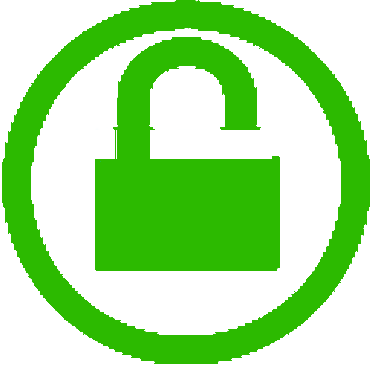
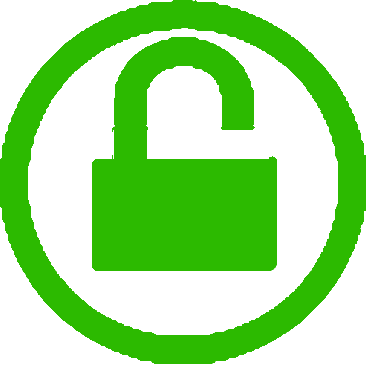
Un po' di grafica
cambio pop up provvisori
cambio icona
cambio sfondo

diff --git a/Move Quiz/Question.xaml b/Move Quiz/Question.xaml
@@ -20,23 +20,49 @@
         </Grid.Background>
         <!--ContentPanel - place additional content here-->
         <!--<Grid x:Name="ContentPanel" Grid.Row="1" Margin="12,0,12,0">-->
-        <Popup x:Name="vittoria" Grid.Row="1" >
-            <Border  BorderThickness="2"  BorderBrush="{StaticResource PhoneAccentBrush}">
-                <StackPanel Background="LightBlue" Height="490" Width="460">
+        <Popup x:Name="vittoria" Margin="23,130,0,0" >
+            <Border  BorderThickness="2">
+            	<Border.BorderBrush>
+            		<RadialGradientBrush>
+            			<GradientStop Color="Black" Offset="0"/>
+            			<GradientStop Color="White" Offset="1"/>
+            		</RadialGradientBrush>
+            	</Border.BorderBrush>
+            	<Border.Background>
+            		<LinearGradientBrush EndPoint="0.5,1" StartPoint="0.5,0">
+            			<GradientStop Color="Black" Offset="0"/>
+            			<GradientStop Color="White" Offset="1"/>
+            		</LinearGradientBrush>
+            	</Border.Background>
+                <StackPanel Background="#FF007CA4" Height="490" Width="427" Margin="0">
                     <Image Margin="0 30 0 20" Grid.Row="0" Source="/Images/vittoria.png" HorizontalAlignment="Center" Stretch="Uniform" Width="250" />
-                    <TextBlock Grid.Row="1" Text="Hai Vinto" TextAlignment="Center" FontSize="40" FontFamily="/Lights Out;component/Fonts/Fonts.zip#Buxton Sketch" Margin="10,0" />
-                    <Button Grid.Row="2" x:Name="btn_continue"  Content="Continue" FontFamily="/Lights Out;component/Fonts/Fonts.zip#Buxton Sketch" Width="215" Click="next_level"/>
+                    <TextBlock Grid.Row="1" TextAlignment="Center" FontSize="53.333" FontFamily="/Lights Out;component/Fonts/Fonts.zip#Buxton Sketch" Margin="10,0" >
+                    	<Run Text="Livello"/>
+                    	<LineBreak/>
+                    	<Run Text="completato!"/>
+                    </TextBlock>
+                    <Button Grid.Row="2" x:Name="btn_continue"  Content="Successivo" FontFamily="/Lights Out;component/Fonts/Fonts.zip#Buxton Sketch" Click="next_level" Height="146" Margin="10,0" FontSize="33.333"/>
 
                 </StackPanel>
             </Border>
         </Popup>
-        <Popup x:Name="sconfittaPopUp" Grid.Row="1" >
-            <Border  BorderThickness="2"  BorderBrush="{StaticResource PhoneAccentBrush}">
-                <StackPanel Background="LightBlue" Height="490" Width="460">
+        <Popup x:Name="sconfittaPopUp" Height="573" VerticalAlignment="Bottom" HorizontalAlignment="Left" Width="460" Margin="23,0,0,105" >
+            <Border  BorderThickness="2">
+            	<Border.BorderBrush>
+            		<RadialGradientBrush>
+            			<GradientStop Color="Black" Offset="0"/>
+            			<GradientStop Color="White" Offset="1"/>
+            		</RadialGradientBrush>
+            	</Border.BorderBrush>
+                <StackPanel Background="#FF007CA4" Height="572" Width="433" Margin="0">
                     <Image Margin="0 30 0 20" Grid.Row="0" Source="/Images/vittoria.png" HorizontalAlignment="Center" Stretch="Uniform" Width="250" />
-                    <TextBlock Grid.Row="1" Text="Risposta errata" TextAlignment="Center" FontSize="40" FontFamily="/Lights Out;component/Fonts/Fonts.zip#Buxton Sketch" Margin="10,0" />
-                    <Button Grid.Row="2" x:Name="btn_ricomincia"  Content="Ricomincia" FontFamily="/Lights Out;component/Fonts/Fonts.zip#Buxton Sketch" Width="215" Click="ricomincia"/>
-                    <Button Grid.Row="2" x:Name="btn_esci"  Content="Esci" FontFamily="/Lights Out;component/Fonts/Fonts.zip#Buxton Sketch" Width="215" Click="esci"/>
+                    <TextBlock Grid.Row="1" TextAlignment="Center" FontSize="60" FontFamily="/Lights Out;component/Fonts/Fonts.zip#Buxton Sketch" Margin="10,0" >
+                    	<Run Text="Risposta"/>
+                    	<LineBreak/>
+                    	<Run Text="errata"/>
+                    </TextBlock>
+                    <Button Grid.Row="2" x:Name="btn_ricomincia"  Content="Ricomincia" FontFamily="/Lights Out;component/Fonts/Fonts.zip#Buxton Sketch" Click="ricomincia" Height="126" Margin="64,0" FontSize="40"/>
+                    <Button x:Name="btn_esci"  Content="Esci" FontFamily="/Lights Out;component/Fonts/Fonts.zip#Buxton Sketch" Click="esci" Margin="64,0" Height="126" RenderTransformOrigin="0.5,0.5" UseLayoutRounding="False" d:LayoutRounding="Auto" FontSize="40"/>
 
                 </StackPanel>
             </Border>

diff --git a/Move Quiz/MainPage.xaml b/Move Quiz/MainPage.xaml
@@ -14,7 +14,10 @@
     shell:SystemTray.IsVisible="True">
 
     <!--LayoutRoot is the root grid where all page content is placed-->
-    <Grid x:Name="LayoutRoot" Background="Transparent">
+    <Grid x:Name="LayoutRoot">
+    	<Grid.Background>
+    		<ImageBrush Stretch="Fill" ImageSource="back4.jpg"/>
+    	</Grid.Background>
         <Grid.RowDefinitions>
             <RowDefinition Height="Auto"/>
             <RowDefinition Height="*"/>
@@ -34,7 +37,7 @@
 
         <!--ContentPanel - place additional content here-->
         <Grid x:Name="ContentPanel" Margin="14,136,10,-10" Grid.RowSpan="2">
-            <Button Content="Gioca ora!" HorizontalAlignment="Left" VerticalAlignment="Top" Click="Button_Click" Width="446" Height="200" FontFamily="/Move Quiz;component/Fonts/Fonts.zip#Candara" FontSize="70">
+            <Button Content="Gioca ora!" HorizontalAlignment="Left" VerticalAlignment="Top" Click="Button_Click" Width="446" Height="200" FontFamily="/Move Quiz;component/Fonts/Fonts.zip#Candara" FontSize="70" Background="#E1000000">
                 <Button.Foreground>
                     <LinearGradientBrush EndPoint="0.5,1" MappingMode="RelativeToBoundingBox" StartPoint="0.5,0">
                         <GradientStop Color="White"/>
@@ -42,7 +45,7 @@
                     </LinearGradientBrush>
                 </Button.Foreground>
             </Button>
-            <Button Content="Informazioni" HorizontalAlignment="Left" Margin="0,205,0,0" VerticalAlignment="Top" Click="Button_Click" Width="446" Height="200" FontFamily="/Move Quiz;component/Fonts/Fonts.zip#Candara" FontSize="70">
+            <Button Content="Informazioni" HorizontalAlignment="Left" Margin="0,205,0,0" VerticalAlignment="Top" Click="Button_Click" Width="446" Height="200" FontFamily="/Move Quiz;component/Fonts/Fonts.zip#Candara" FontSize="70" Background="#E1000000">
                 <Button.Foreground>
                     <LinearGradientBrush EndPoint="0.5,1" MappingMode="RelativeToBoundingBox" StartPoint="0.5,0">
                         <GradientStop Color="White"/>
@@ -50,7 +53,7 @@
                     </LinearGradientBrush>
                 </Button.Foreground>
             </Button>
-            <Button Content="Altro" HorizontalAlignment="Left" Margin="0,405,0,0" VerticalAlignment="Top" Click="Button_Click" Width="446" Height="200" FontFamily="/Move Quiz;component/Fonts/Fonts.zip#Candara" FontSize="70">
+            <Button Content="Altro" HorizontalAlignment="Left" Margin="0,405,0,0" VerticalAlignment="Top" Click="Button_Click" Width="446" Height="200" FontFamily="/Move Quiz;component/Fonts/Fonts.zip#Candara" FontSize="70" Background="#E1000000">
                 <Button.Foreground>
                     <LinearGradientBrush EndPoint="0.5,1" MappingMode="RelativeToBoundingBox" StartPoint="0.5,0">
                         <GradientStop Color="White"/>

diff --git a/Move Quiz/PagLivelli.xaml b/Move Quiz/PagLivelli.xaml
@@ -16,7 +16,10 @@
     shell:SystemTray.IsVisible="True">
 
     <!--LayoutRoot è la griglia radice in cui viene inserito tutto il contenuto della pagina-->
-    <Grid x:Name="LayoutRoot" Background="Transparent">
+    <Grid x:Name="LayoutRoot">
+    	<Grid.Background>
+    		<ImageBrush Stretch="Fill" ImageSource="back4.jpg"/>
+    	</Grid.Background>
         <Grid.RowDefinitions>
             <RowDefinition Height="Auto"/>
             <RowDefinition Height="*"/>
